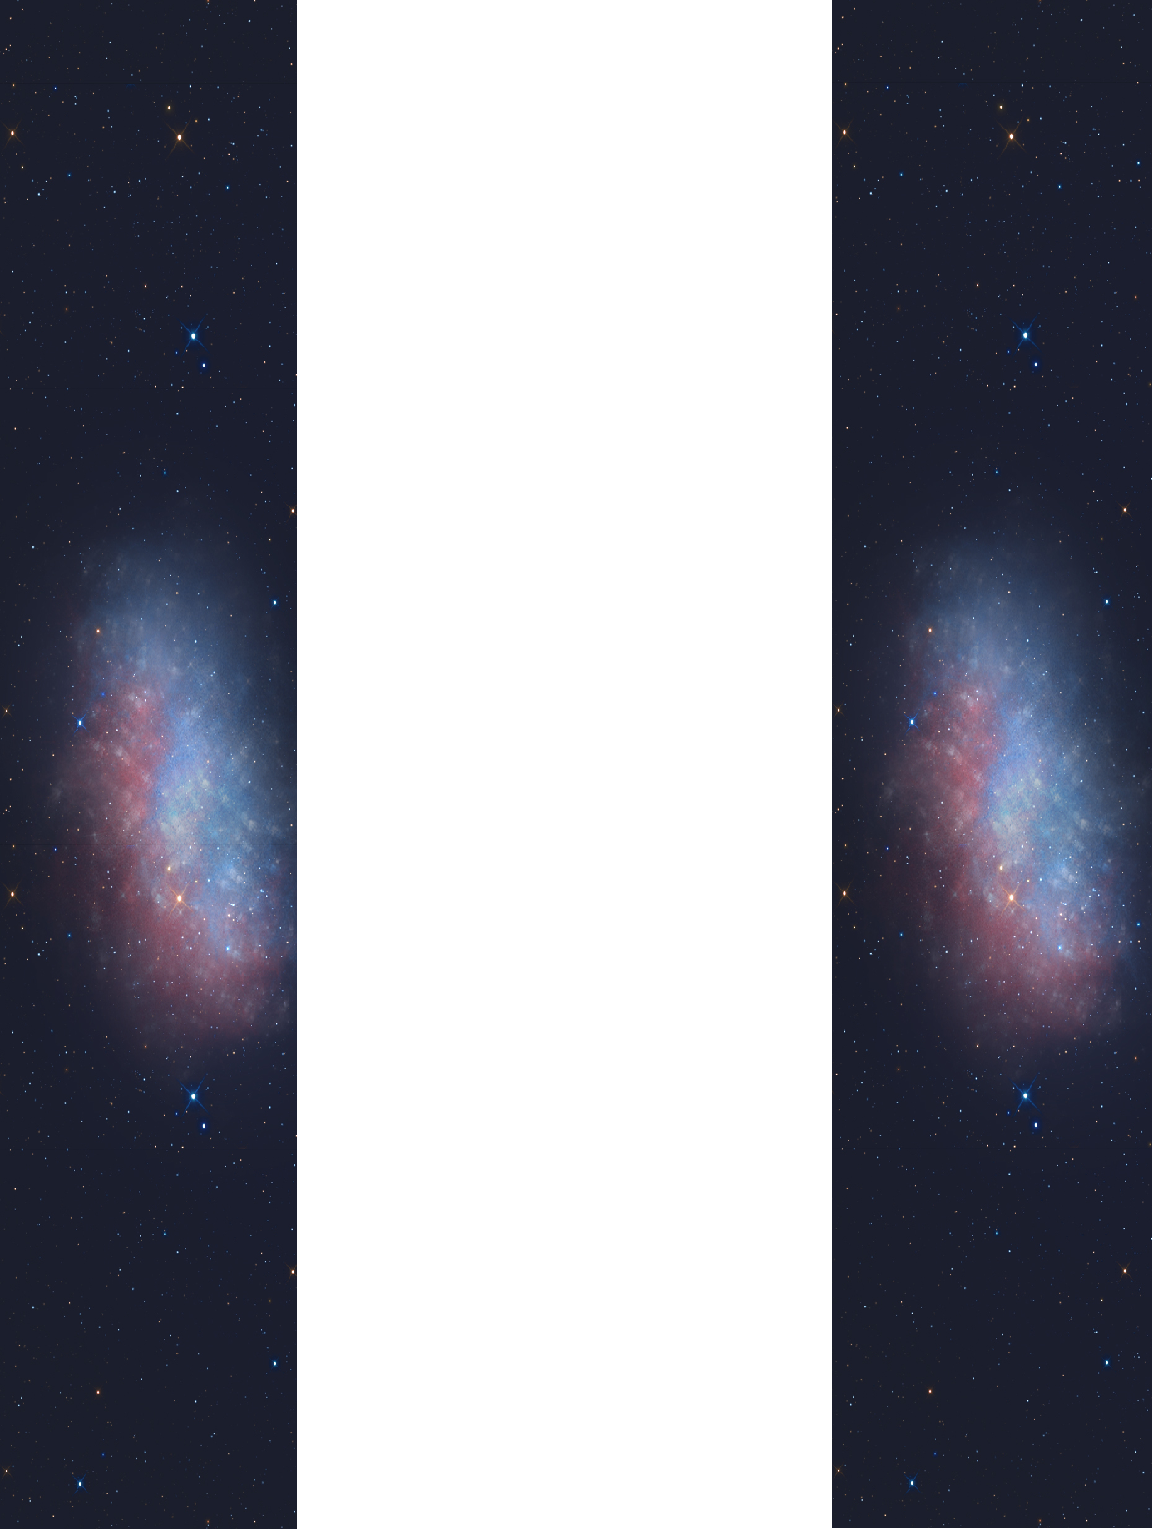
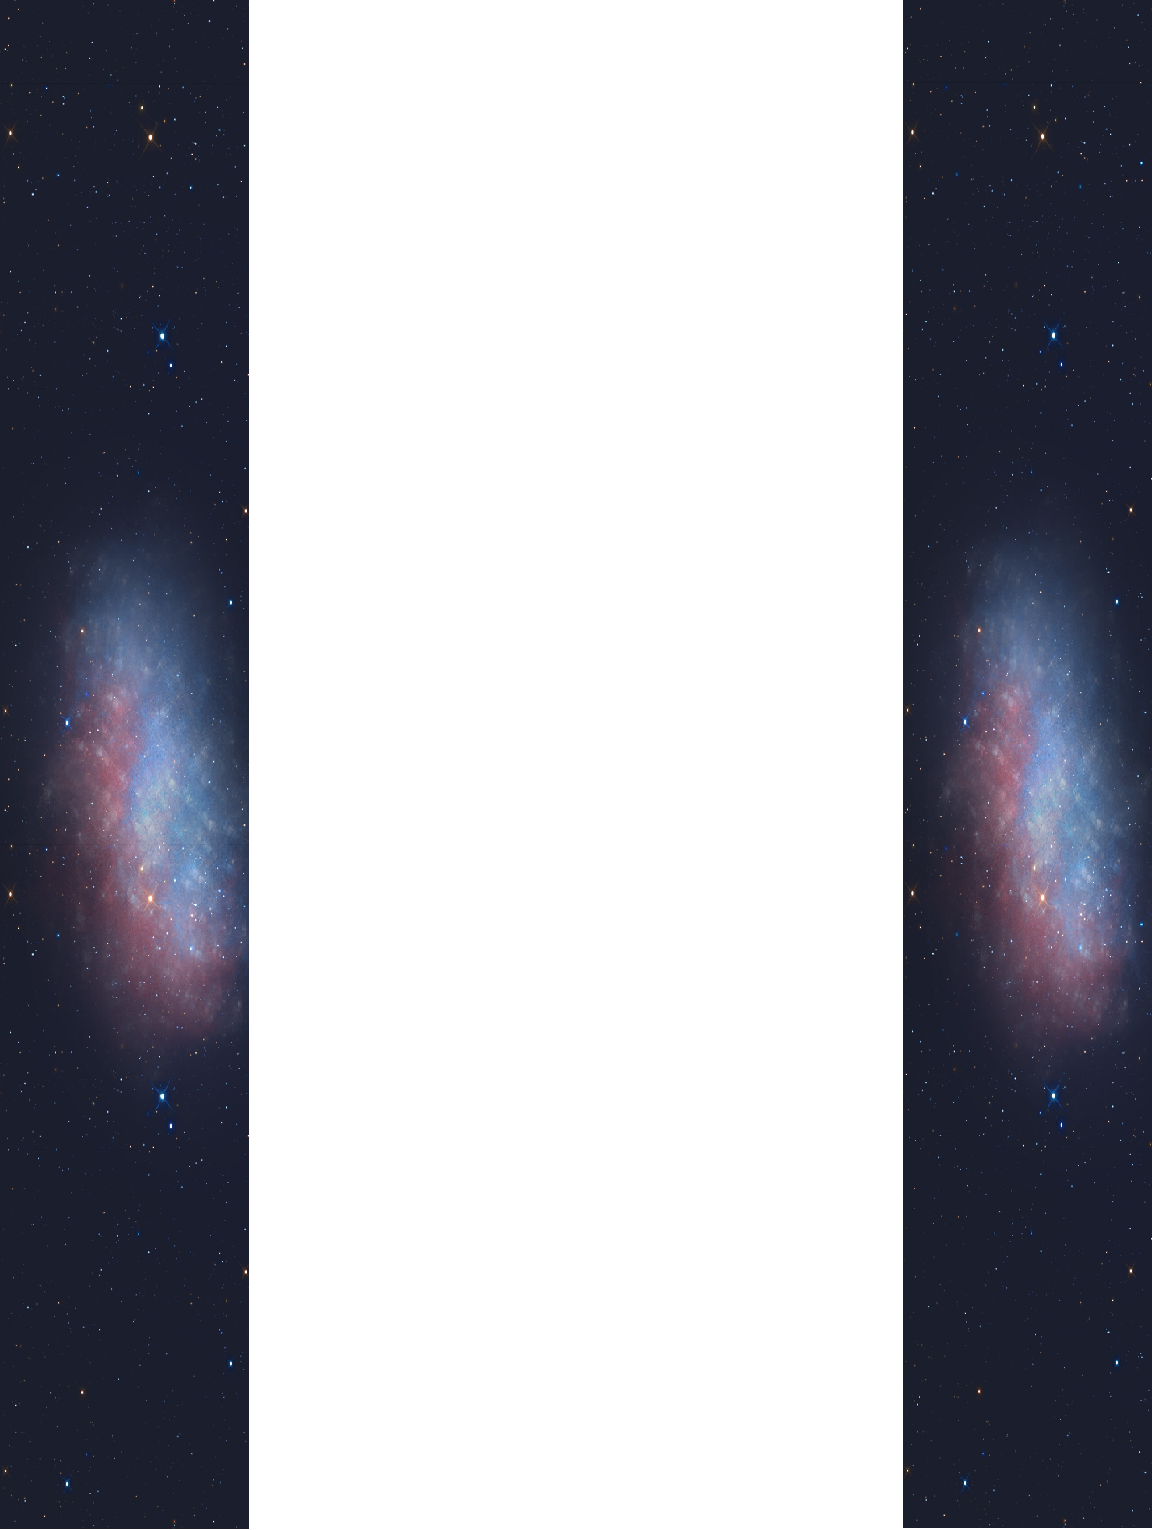
배경이미지 반응형으로 전환

diff --git a/Portfolio/src/main/webapp/resouces/css/style.css b/Portfolio/src/main/webapp/resouces/css/style.css
@@ -30,7 +30,9 @@ a {
 	font-weight: bold;
 	background-size: cover;
 	background-repeat : no-repeat;
-	background-image: url("../image/background.png")
+	background-image: url("../image/background.png");
+	height: 100vh;
+	background-position: center;
 }
 
 .jb-content {
